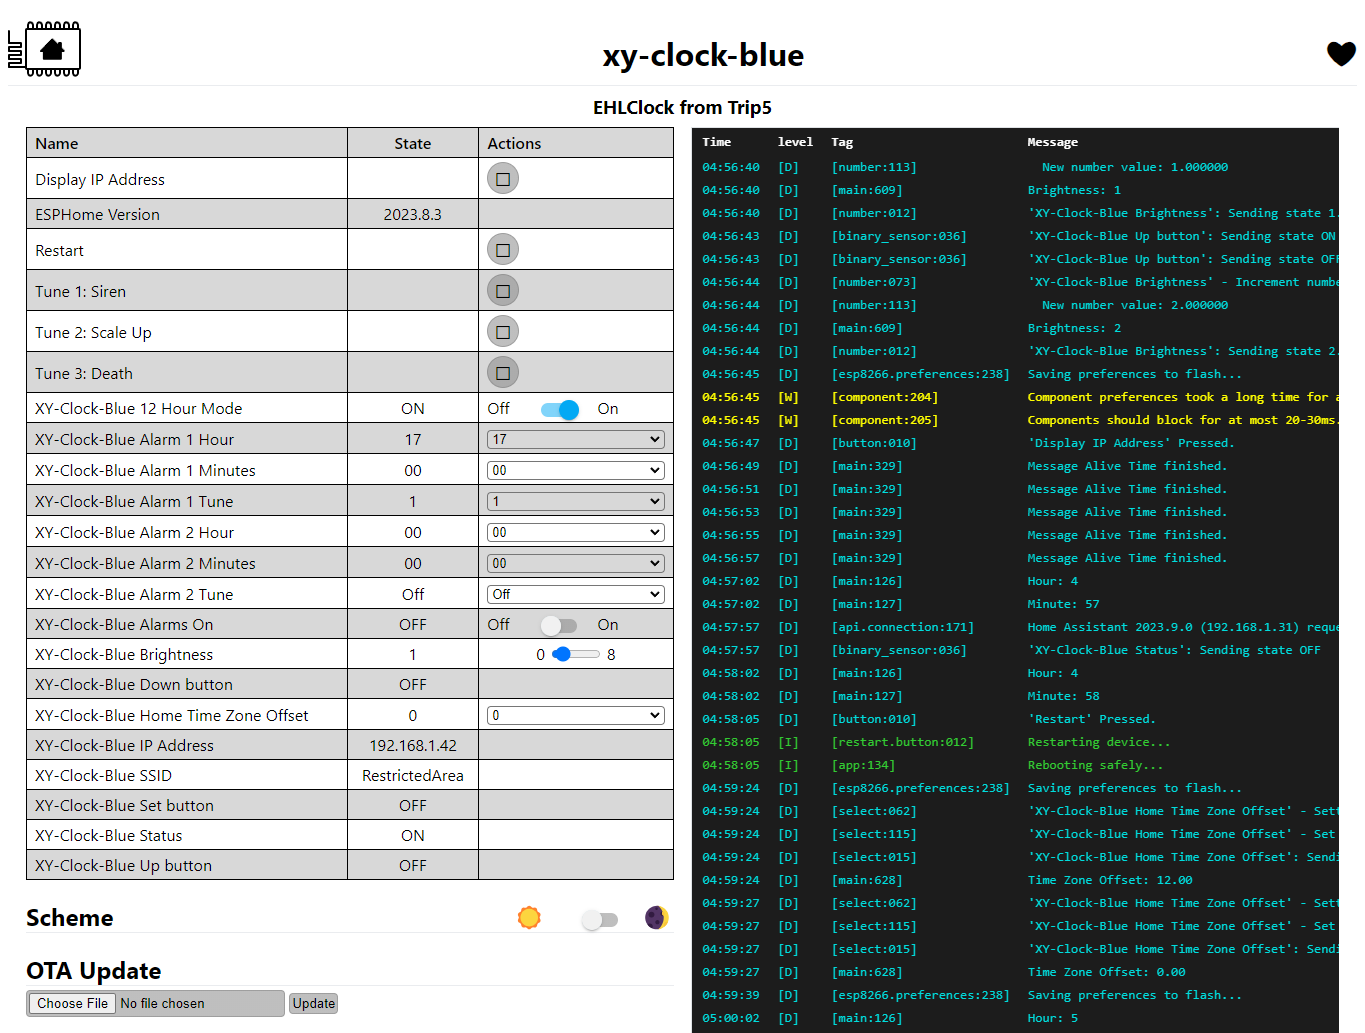
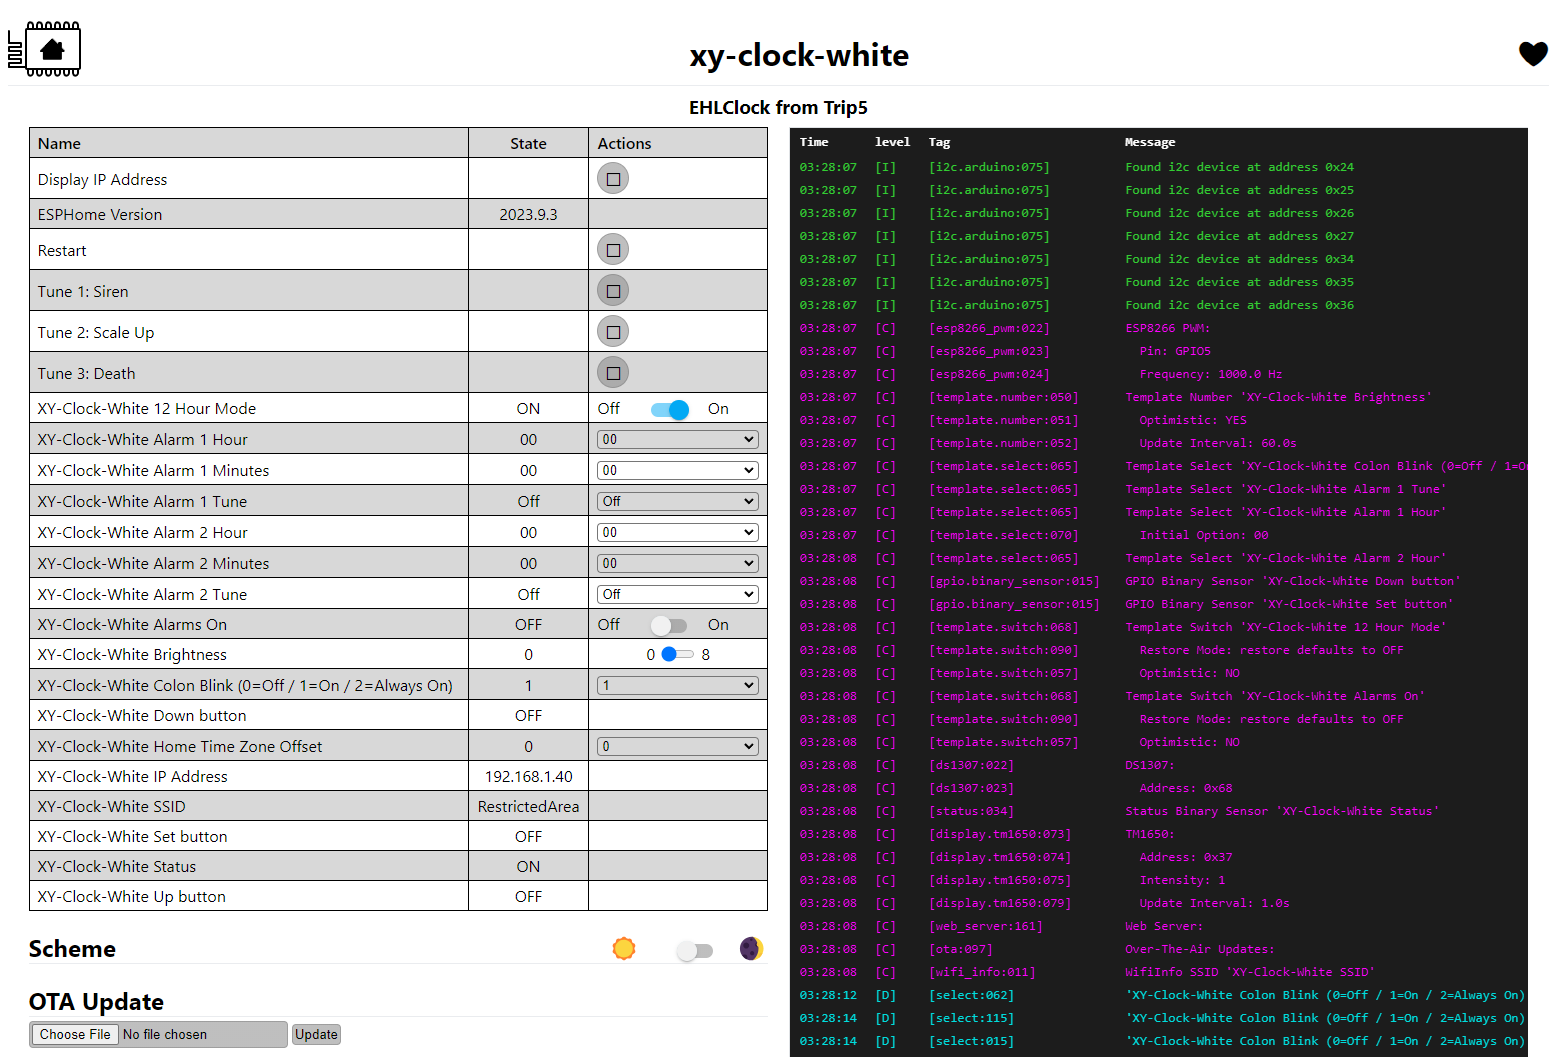
Colon Blink option added

Changed region(s): [[0.0, 0.0, 0.9846, 0.9913], [0.4308, 0.031, 0.5846, 0.062], [0.9538, 0.031, 1.0, 0.062]]

diff --git a/README.md b/README.md
@@ -2,7 +2,7 @@
 
 EHLC is meant to be used on ESP-based LED Clocks using ESPHome. So far, it works with Sinilink Wifi XY-Clocks and 303WifiLC01 Clocks. It can probably be adapted for use with other 7-Segment Display clocks. And, of course, it's ESPHome, so it's only limited by your imagination and skill.
 
-A lot of inspiration is taken from the [EHMTXv2](https://github.com/lubeda/EspHoMaTriXv2) project... but with a 7-segment display.
+A lot of inspiration is taken from the [`EHMTXv2`](https://github.com/lubeda/EspHoMaTriXv2) project... but with a 7-segment display.
 
 Using either clock requires the TM1650 display to be supported by an external component - at least until ESPHome has native support. The 303WifiLC01 Clock also requires an external component to support its RTC chip. The default config is to use my own forks of other repositories (which I link to below).
 
